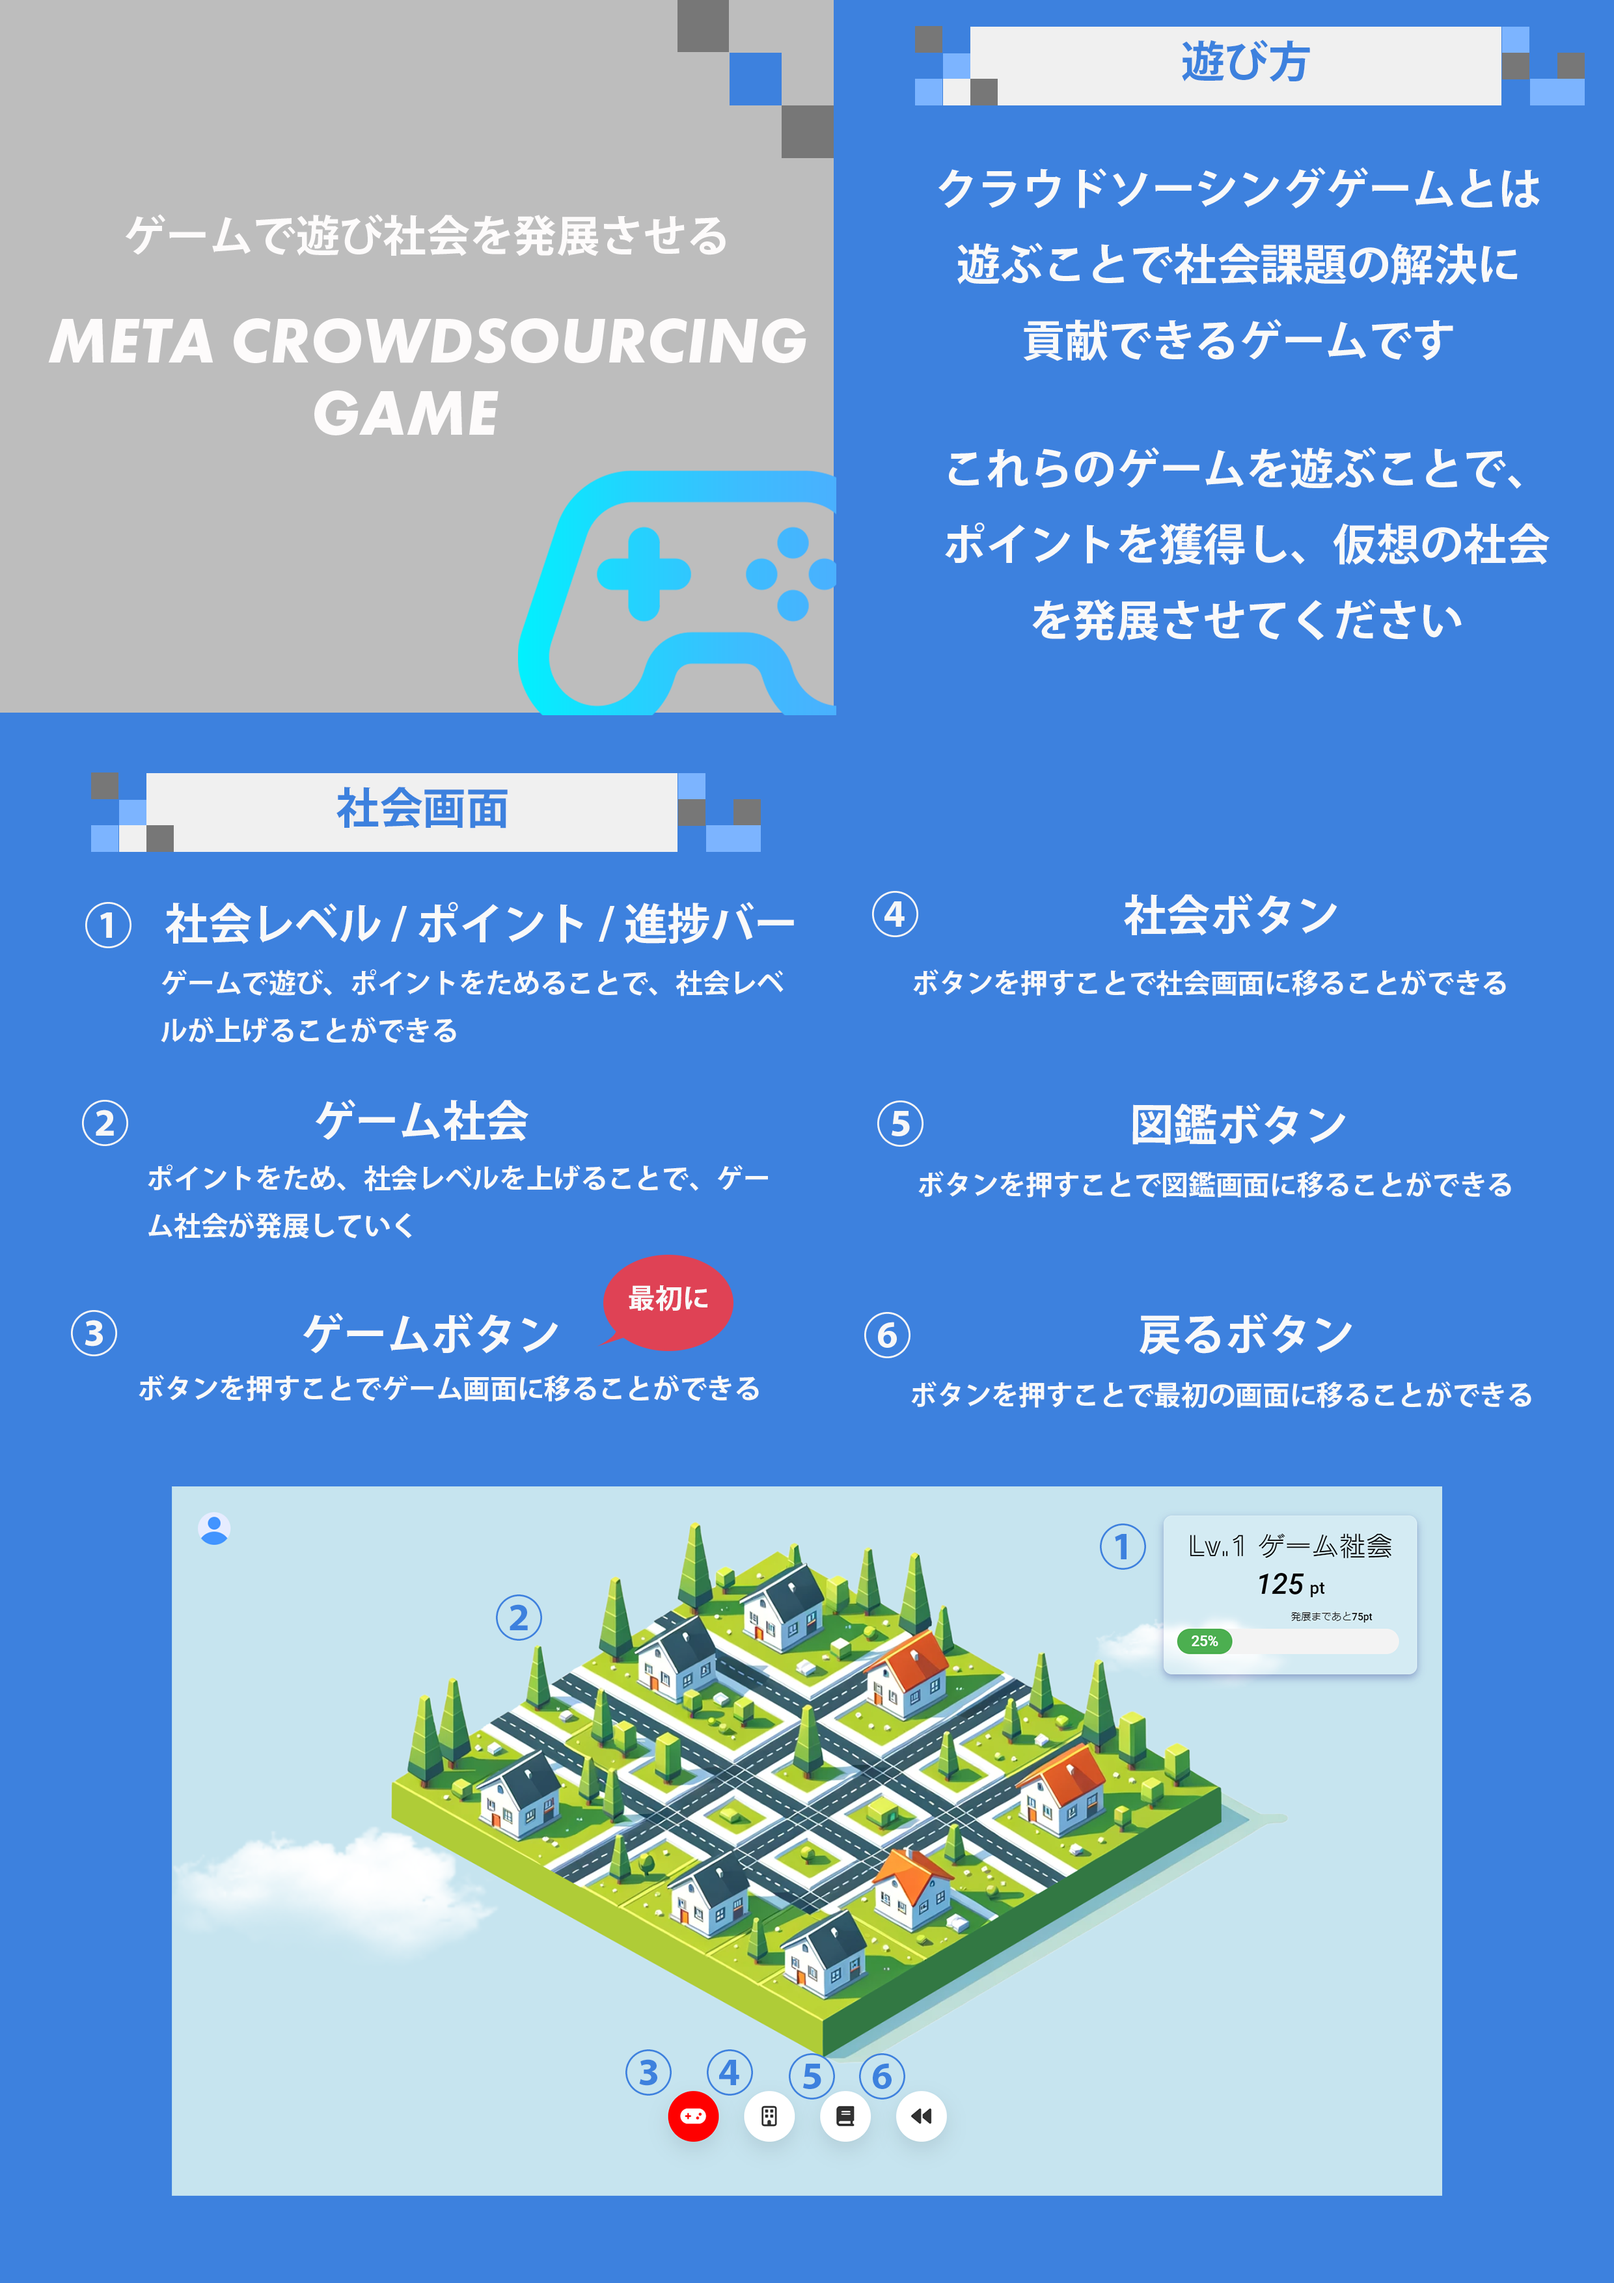
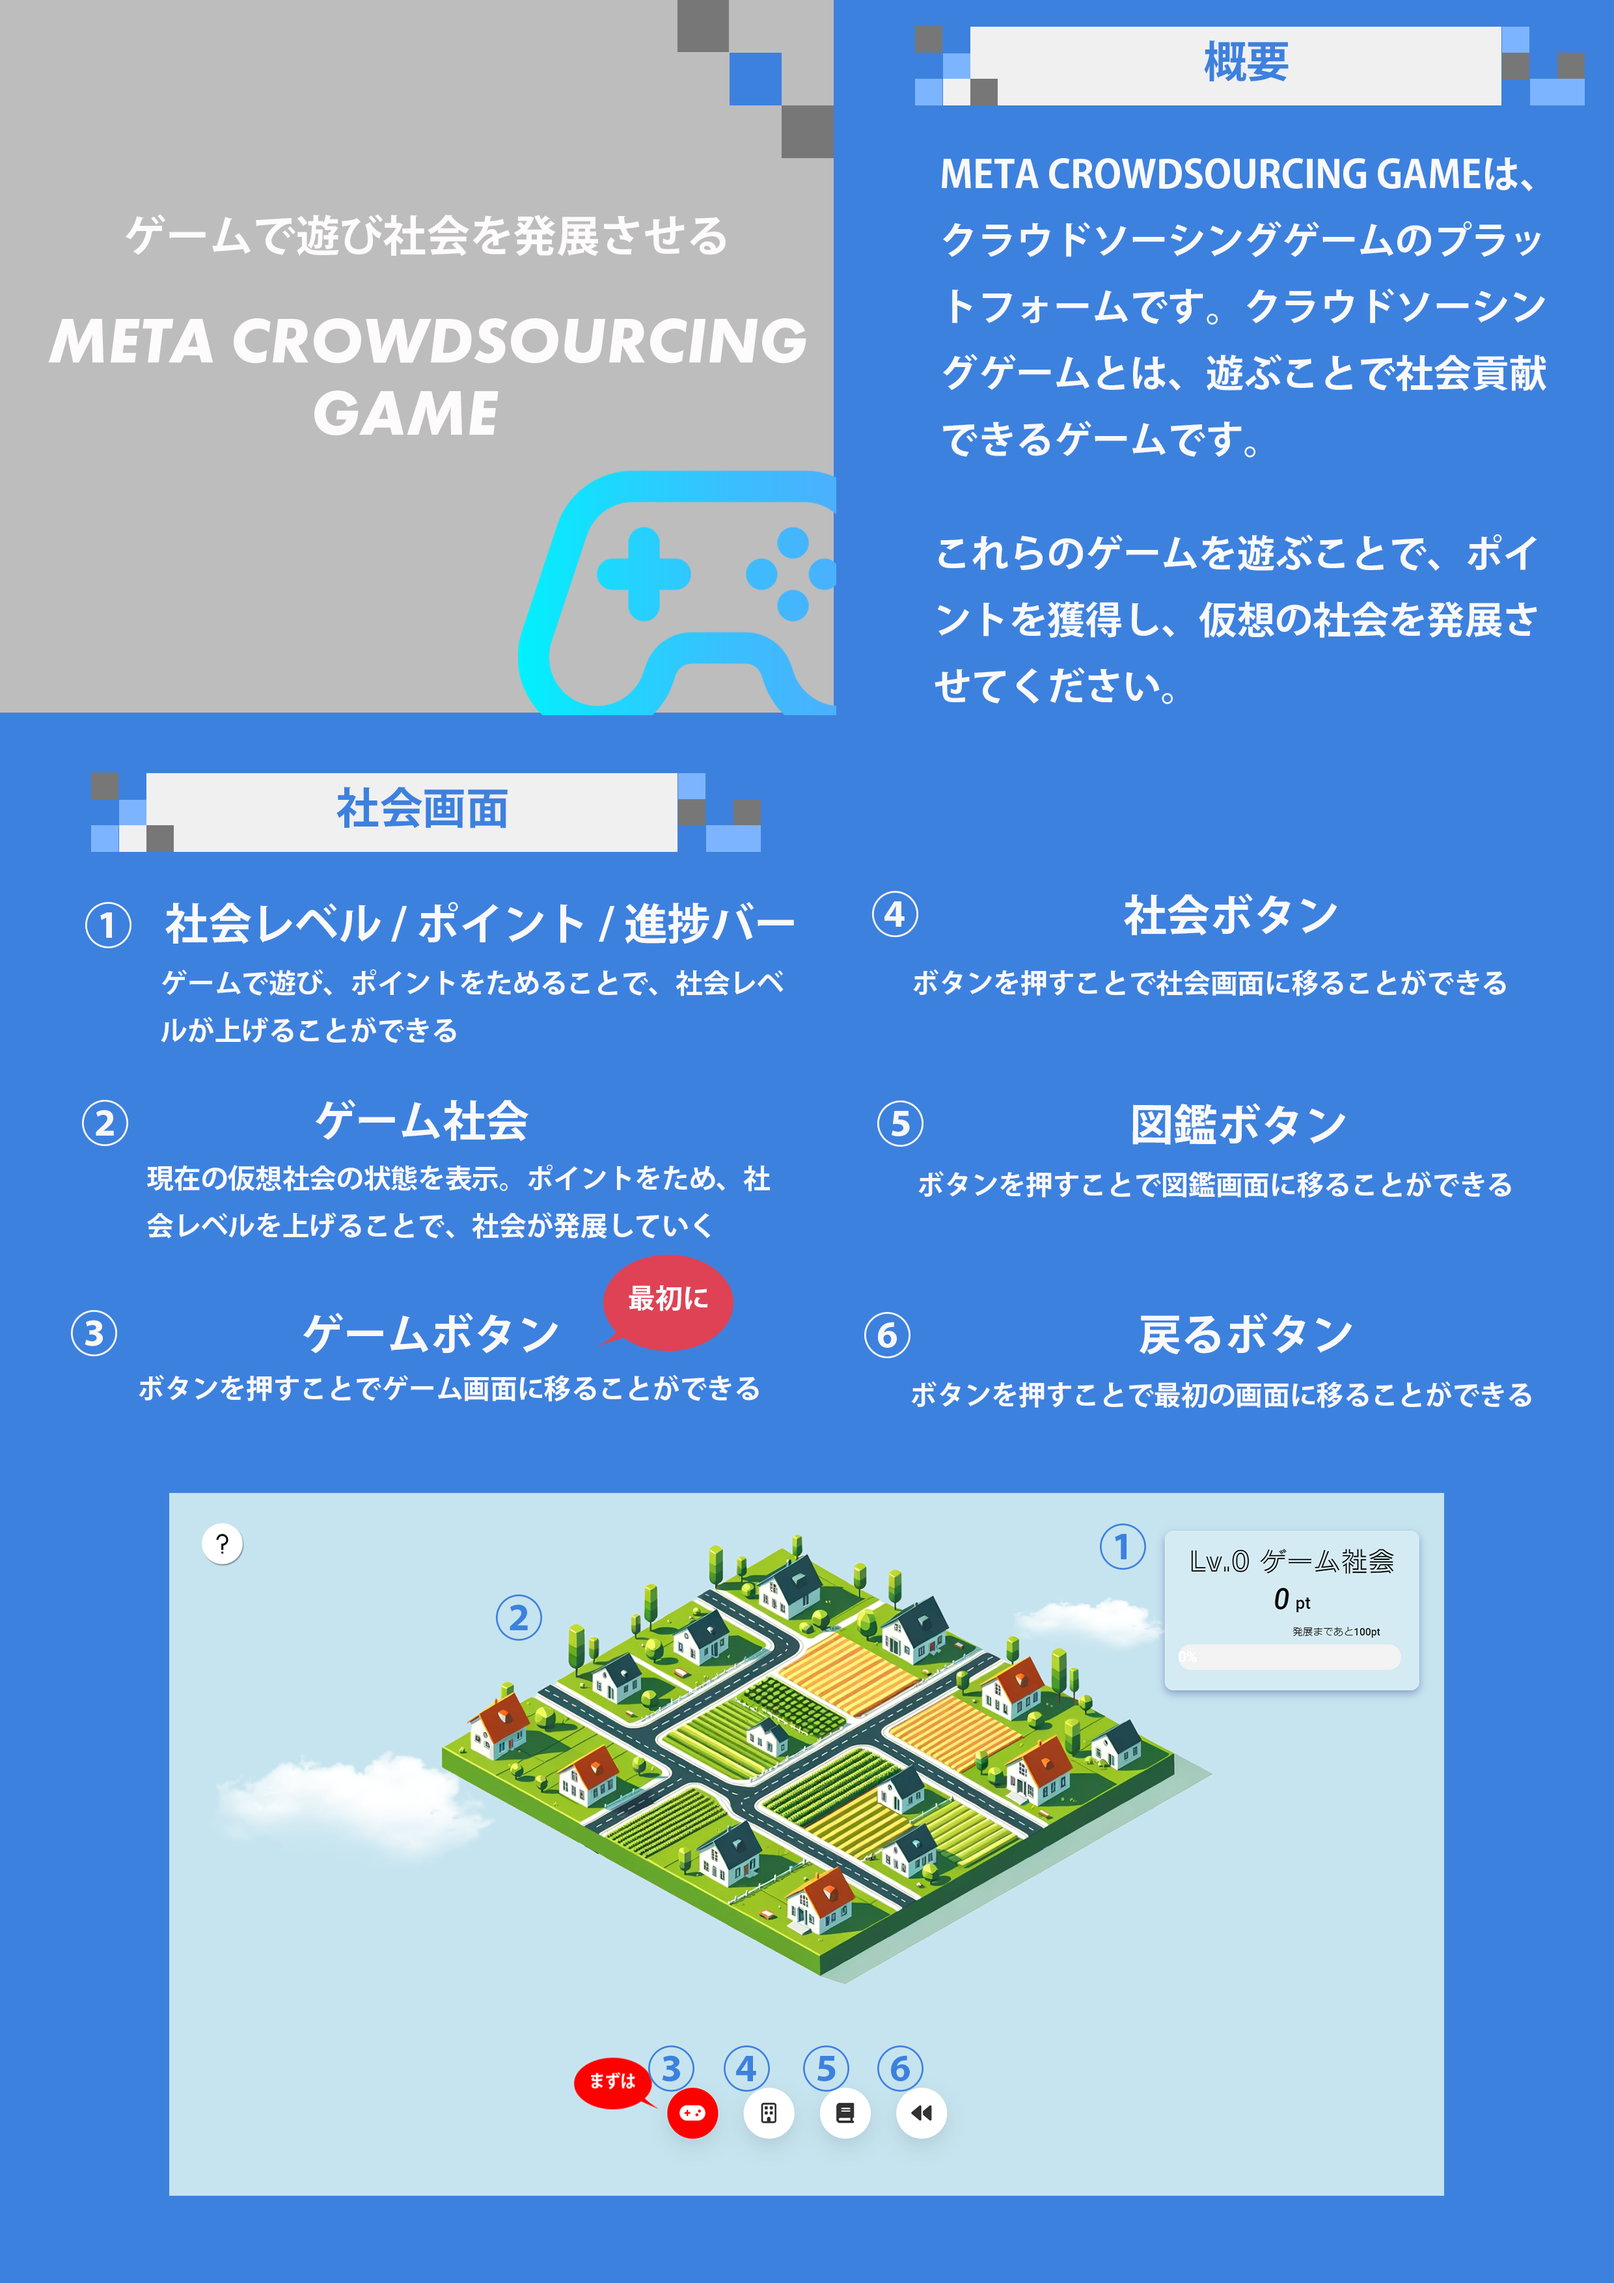
✨ 修正

diff --git a/scroll/scroll.html b/scroll/scroll.html
@@ -38,7 +38,7 @@
                 <a href="../games/eyewire/eyewire.html" class="increment" id="clickButton8"  target="_blank"><img src="../img/Eyewire.png" alt="img8"></a>
                 <a href="../games/artigo/artigo.html" class="increment" id="clickButton9" target="_blank"><img src="../img/ARTigo.png" alt="img9"></a>
                 <a href="../games/crowdWater/crowdWater.html" class="increment" id="clickButton2"  target="_blank"><img src="../img/crowdWater.png" alt="img2"></a>
-                <a href="../games/freewill/freewill.html" class="increment" id="clickButton6" target="_blank"><img src="../img/freewill.png" alt="img4"></a>
+                <!-- <a href="../games/freewill/freewill.html" class="increment" id="clickButton6" target="_blank"><img src="../img/freewill.png" alt="img4"></a> -->
                 <a href="../games/eterna/eterna.html" class="increment" id="clickButton7" target="_blank"><img src="../img/eterna.png" alt="img7"></a>
             </div>
             <div>
@@ -46,7 +46,7 @@
                 <a href="../games/eyewire/eyewire.html" class="increment" id="clickButton8"  target="_blank"><img src="../img/Eyewire.png" alt="img8"></a>
                 <a href="../games/artigo/artigo.html" class="increment" id="clickButton9" target="_blank"><img src="../img/ARTigo.png" alt="img9"></a>
                 <a href="../games/crowdWater/crowdWater.html" class="increment" id="clickButton11" target="_blank"><img src="../img/crowdWater.png" alt="img2"></a>
-                <a href="../games/freewill/freewill.html" class="increment" id="clickButton15" target="_blank"><img src="../img/freewill.png" alt="img4"></a>
+                <!-- <a href="../games/freewill/freewill.html" class="increment" id="clickButton15" target="_blank"><img src="../img/freewill.png" alt="img4"></a> -->
                 <a href="../games/eterna/eterna.html" class="increment" id="clickButton16" target="_blank"><img src="../img/eterna.png" alt="img7"></a>
                 <!-- <a href="../games/eyewire/eyewire.html" class="increment" id="clickButton17"  target="_blank"><img src="../img/Eyewire.png" alt="img8"></a>
                 <a href="../games/artigo/artigo.html" class="increment" id="clickButton18" target="_blank"><img src="../img/ARTigo.png" alt="img9"></a> -->
@@ -54,10 +54,10 @@
         </div>
 
         <ul class="navigation">
-            <li class="active"><a href="../scroll/scroll.html"><i class="fa-solid fa-gamepad"></i></a></li>
-            <li><a href="../city/city.html"><i class="fa-regular fa-building"></i></a></li>
-            <li><a href="../book/book.html" target="_blank"><i class="fa-solid fa-book"></i></i></a></li>
-            <li><a href="../index.html"><i class="fa-solid fa-backward"></i></a></li>
+            <li class="active"><a href="../scroll/scroll.html"><i class="fa-solid fa-gamepad"></i></a><p>ゲーム</p></li>
+            <li><a href="../city/city.html"><i class="fa-regular fa-building"></i></a><p>社会</p></li>
+            <li><a href="../book/book.html" target="_blank"><i class="fa-solid fa-book"></i></i></a><p>図鑑</p></li>
+            <li><a href="../instruct/instruct.html"><i class="fa-solid fa-backward"></i></a><p>スタート</p></li>
         </ul>
     </section>   
 

diff --git a/instruct/instruct.html b/instruct/instruct.html
@@ -26,10 +26,12 @@
             <div class="content">
                 <div class="box intro">
                     <div class="contentBx">
-                        <h4 class="typeing" data-speed="100">ー 遊び方 ー</h4>
+                        <h4>Meta Crowdsourcing Game</h4>
+                        <h5 class="typeing" data-speed="150">下のボタンをクリックしてください</h5>
                         <!-- <img src="../img/指.png" alt=""> -->
                     </div>
                 </div>
+
                 <div class="box society">
                     <div class="contentBx">
                         <h2 class="typeing" data-speed="100">クラウドソーシングゲームとは、遊ぶことで社会課題の解決に貢献できるゲームです</h2>
@@ -47,7 +49,7 @@
                 </div>
                 <div class="box score">
                     <div class="contentBx">
-                        <h2 class="typeing" data-speed="100">このプラットフォームでは、クラウドソーシングゲームを遊ぶことで、ポイントを獲得し、仮想の社会を発展させてください</h2>
+                        <h2 class="typeing" data-speed="100">プラットフォーム内のクラウドソーシングゲームを遊ぶことで、ポイントを獲得し、仮想の社会を発展させてください</h2>
                         <div class="background-image" style="background-image: url('../img/city0.png');"></div>
                         <div class="background-image" style="background-image: url('../img/city1.png');"></div>
                         <div class="background-image" style="background-image: url('../img/city2.png');"></div>
@@ -58,7 +60,7 @@
                 <div class="box con">
                     <div class="contentBx">
                         <h3 class="typeing" data-speed="100">さあ、ゲームで「社会」を発展させよう</h2>
-                        <button onclick="location.href='../city/city.html'">Let's play</button>
+                        <button onclick="location.href='../scroll/scroll.html'">Let's play</button>
                     </div>
                 </div>
             </div>
@@ -66,8 +68,8 @@
     </div>
     <script src="instruct.js"></script>
 </div>
-<div class="message">
+<!-- <div class="message">
     <p>パソコンの画面サイズを最大にすることで、遊ぶことができます。</p>
-</div>
+</div> -->
 </body>
 </html>

diff --git a/scroll/scroll.js b/scroll/scroll.js
@@ -40,6 +40,38 @@ document.addEventListener('visibilitychange', function() {
                 localStorage.setItem('lastClicked', new Date().getTime()); // Record the time of the click
             });
         });
+
+        // レベルアップ画像の表示
+        function showLevelImage(count) {
+            const level = Math.floor(count / 100); // 百の位を取得
+            const imageUrl = `../img/Lv${level} Meta.png`; // 画像URLを作成
+
+            setTimeout(() => {
+                // 画像要素を作成
+                const imageElement = document.createElement('img');
+                imageElement.src = imageUrl;
+                imageElement.style.position = 'fixed';
+                imageElement.style.top = '50%';
+                imageElement.style.left = '50%';
+                imageElement.style.transform = 'translate(-50%, -50%)';
+                imageElement.style.zIndex = '1000'; // 他の要素より前に表示
+                imageElement.style.width = '650px'; // 画像の幅を指定（必要に応じて変更）
+                imageElement.style.height = 'auto';
+        
+                // 画像を画面に追加
+                document.body.appendChild(imageElement);
+        
+                // 次にクリックされたときに画像を削除
+                const removeImageOnClick = () => {
+                    document.body.removeChild(imageElement);
+                    document.removeEventListener('click', removeImageOnClick); // イベントリスナーを削除
+                };
+        
+                // クリックイベントリスナーを追加
+                document.addEventListener('click', removeImageOnClick);
+            }, 1500); // 1.5秒後に実行
+        }
+
         
         function incrementCounter() {
             const counterElement = document.getElementById('counter');
@@ -53,6 +85,10 @@ document.addEventListener('visibilitychange', function() {
                     counterElement.innerText = currentCount ;
                     localStorage.setItem('counter', currentCount);
                     updateCitySize(currentCount, citySizeElement);
+                    // 100の倍数の場合に画像を表示
+                    if (currentCount % 100 === 0) {
+                    showLevelImage(currentCount);
+                    }
                 } else {
                     clearInterval(intervalId);
                 }

diff --git a/book/book.html b/book/book.html
@@ -232,11 +232,11 @@
 
         <!-- ＃13 -->
         <div class="row infra map">
-            <a href="https://game.guardians.city/" target="_blank">
-                <img src="../img/鉄とコンクリートの守り人.jpg" alt="写真">
+            <a href="https://lp.tekkon.com/" target="_blank">
+                <img src="../img/TEKKON.png" alt="写真">
                 <div class="main-row">
                     <div class="row-text">
-                        <h5>鉄とコンクリートの守り人</h5>
+                        <h5>TEKKON</h5>
                     </div>
                 </div>
                 <ul>
@@ -390,9 +390,23 @@
                 </ul>
             </a>
         </div>
-        
 
-        
+
+        <!-- ＃23 -->
+        <div class="row infra map">
+            <a href="https://corp.pirika.org/service/pirika/" target="_blank">
+                <img src="../img/Pirika.jpeg" alt="写真">
+                <div class="main-row">
+                    <div class="row-text">
+                        <h5>Pirika</h5>
+                    </div>
+                </div>
+                <ul>
+                    <li>インフラ</li>
+                    <li>位置情報</li>
+                </ul>
+            </a>
+        </div>    
 
     </div>
    </section>

diff --git a/city/city.html b/city/city.html
@@ -38,10 +38,10 @@
         </div>
 
         <ul class="navigation">
-            <li class="active"><a href="../scroll/scroll.html"><i class="fa-solid fa-gamepad"></i></a></li>
-            <li><a href="../city/city.html"><i class="fa-regular fa-building"></i></a></li>
-            <li><a href="../book/book.html" target="_blank" ><i class="fa-solid fa-book"></i></i></a></li>
-            <li><a href="../index.html"><i class="fa-solid fa-backward"></i></a></li>
+            <li class="active"><a href="../scroll/scroll.html"><i class="fa-solid fa-gamepad"></i></a><p>ゲーム</p></li>
+            <li><a href="../city/city.html"><i class="fa-regular fa-building"></i></a><p>社会</p></li>
+            <li><a href="../book/book.html" target="_blank" ><i class="fa-solid fa-book"></i></i></a><p>図鑑</p></li>
+            <li><a href="../instruct/instruct.html"><i class="fa-solid fa-backward"></i></a><p>スタート</p></li>
         </ul>
 
             <!-- <img class="hukidasi" src="../img/クリック.png" alt="吹き出し"> -->

diff --git a/scroll/scroll.css b/scroll/scroll.css
@@ -156,12 +156,21 @@ header .grass {
     position: absolute;
     bottom: 70px;
     display: flex;
-    gap: 30px;
+    gap: 40px;
 }
 
 .navigation li{
     position: relative;
     list-style: none;
+    text-align: center;
+    font-family: Trebuchet MS, sans-serif;
+    font-weight:600;
+    color: #3f3f3f;
+}
+
+.navigation li p{
+    font-size: 13px;
+    padding-top: 4px;
 }
 
 .navigation li a{
@@ -194,7 +203,7 @@ header .grass {
     position: absolute;
     left: 0;
     bottom: 120px;
-    padding: 60px 0;
+    padding: 70px 0;
     width: 100%;
     display: flex;
     overflow-x: hidden;

diff --git a/city/city.css b/city/city.css
@@ -206,12 +206,21 @@ header .grass {
     position: absolute;
     bottom: 70px;
     display: flex;
-    gap: 30px;
+    gap: 40px;
 }
 
 .navigation li{
     position: relative;
     list-style: none;
+    text-align: center;
+    font-family: Trebuchet MS, sans-serif;
+    font-weight:600;
+    color: #3f3f3f;
+}
+
+.navigation li p{
+    font-size: 13px;
+    padding-top: 4px;
 }
 
 .navigation li a{

diff --git a/instruct/instruct.css b/instruct/instruct.css
@@ -213,12 +213,19 @@ opacity:0;
 }
 
 .content .box .contentBx h4{
-    font-size: 3em;
+    font-size: 6em;
     color: #fff;
     font-family: 'Noto Sans JP';
     max-width: 800px;
 }
 
+.content .box .contentBx h5{
+    font-size: 1em;
+    color: #fff;
+    font-family: 'Noto Sans JP';
+    max-width: 800px;
+    padding-top: 30px;
+}
 
 .content .box .contentBx button{
     font-size: 1.2em;
